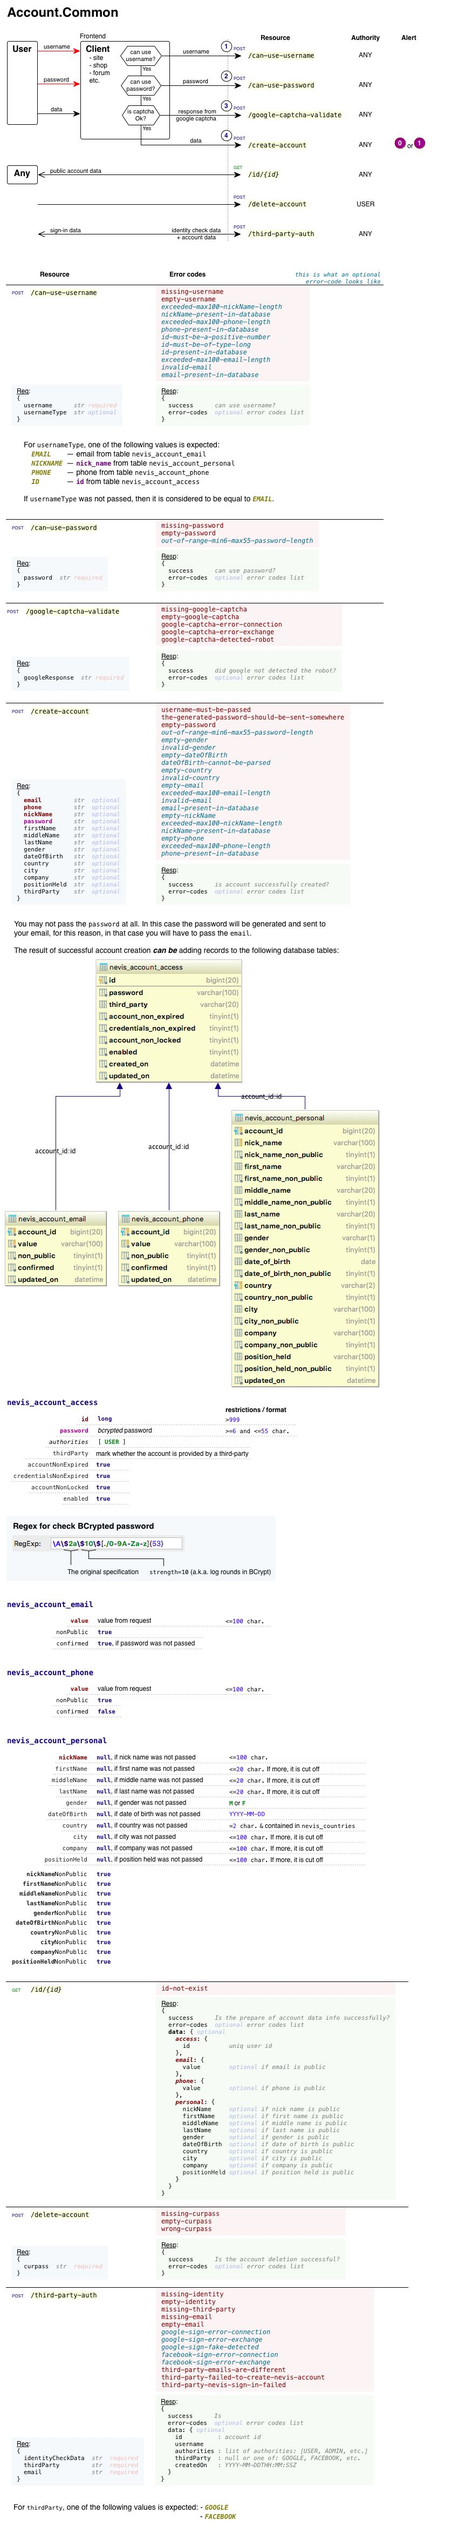
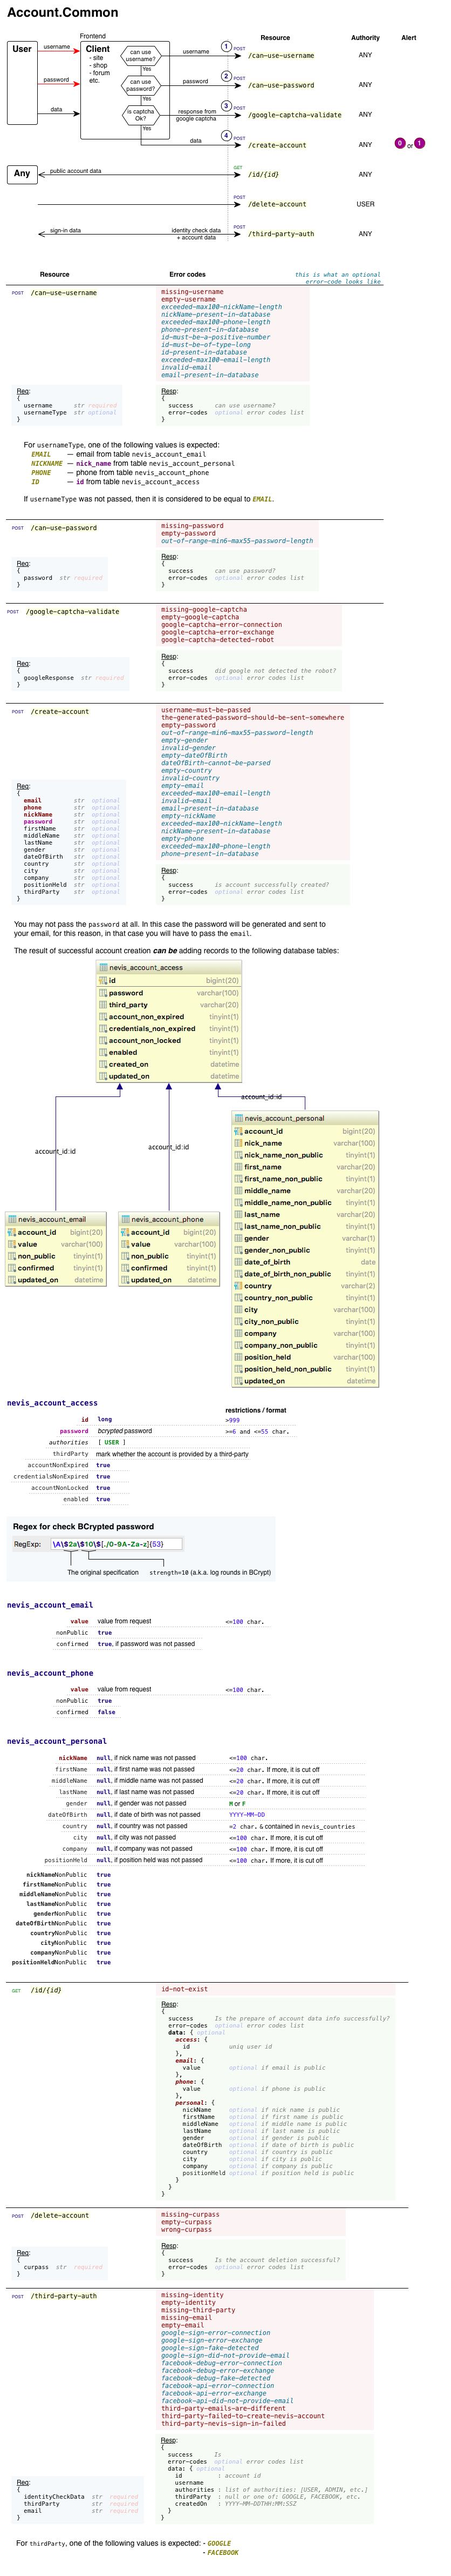
third-party

diff --git a/assets/error-mapping/nevis-server-error-mapping.js b/assets/error-mapping/nevis-server-error-mapping.js
@@ -26,11 +26,16 @@ nevisServerErrorCodesMap = {
     'exceeded-max100-email-length': 'Exceeded max100 Email length',
     'exceeded-max100-nickName-length': 'Exceeded max100 NickName length',
     'exceeded-max100-phone-length': 'Exceeded max100 Phone length',
-    'facebook-sign-error-connection': 'Error connection - Facebook Sign-in Check',
-    'facebook-sign-error-exchange': 'Error exchange - Facebook Sign-in Check',
+    'facebook-api-did-not-provide-email': 'Facebook API did not provide Email',
+    'facebook-api-error-connection': 'Error connection - Facebook API access',
+    'facebook-api-error-exchange': 'Error exchange - Facebook API access',
+    'facebook-debug-error-connection': 'Error connection - Facebook Sign-in Check',
+    'facebook-debug-error-exchange': 'Error exchange - Facebook Sign-in Check',
+    'facebook-debug-fake-detected': 'Facebook Sign-in Check fake detected',
     'google-captcha-detected-robot': 'Google Captcha detected a Robot. Sorry',
     'google-captcha-error-connection': 'Error connection - Google Captcha',
     'google-captcha-error-exchange': 'Error exchange - Google Captcha',
+    'google-sign-did-not-provide-email': 'Google Sign-in did not provide Email',
     'google-sign-error-connection': 'Error connection - Google Sign-in Check',
     'google-sign-error-exchange': 'Error exchange - Google Sign-in Check',
     'google-sign-fake-detected': 'Google Sign-in Check fake detected',

diff --git a/src/main/java/dwfe/nevis/controller/NevisControllerV1.java b/src/main/java/dwfe/nevis/controller/NevisControllerV1.java
@@ -338,14 +338,19 @@ public class NevisControllerV1
       errName = "google-sign";
       // https://developers.google.com/identity/sign-in/web/backend-auth#calling-the-tokeninfo-endpoint
       var url = String.format("https://www.googleapis.com/oauth2/v3/tokeninfo?id_token=%s", req.identityCheckData);
-      var body = exchangeWrap(url, HttpMethod.POST, 3, errName, errorCodes);
-      if (body != null && body.containsKey("email"))
+      var body = exchangeWrap(url, HttpMethod.GET, 3, errName, errorCodes);
+      if (body != null)
       {
         if (body.get("aud").equals(prop.getThirdPartyAuth().getGoogleClientId()))
         {
-          email = (String) body.get("email");
-          firstName = (String) body.get("given_name");
-          lastName = (String) body.get("family_name");
+          if (body.containsKey("email"))
+          {
+            email = (String) body.get("email");
+            firstName = (String) body.getOrDefault("given_name", null);
+            lastName = (String) body.getOrDefault("family_name", null);
+          }
+          else
+            errorCodes.add(errName + "-did-not-provide-email");
         }
         else
           errorCodes.add(errName + "-fake-detected");
@@ -353,29 +358,34 @@ public class NevisControllerV1
     }
     else if (FACEBOOK == thirdParty)
     {
-      errName = "facebook-sign";
-
+      errName = "facebook-debug";
+      var facebookAppId = prop.getThirdPartyAuth().getFacebookAppId();
       // https://developers.facebook.com/docs/facebook-login/access-tokens#apptokens
       // https://developers.facebook.com/docs/facebook-login/access-tokens/debugging-and-error-handling
       var url = String.format("https://graph.facebook.com/debug_token?input_token=%s&access_token=%s|%s",
-              req.identityCheckData, prop.getThirdPartyAuth().getFacebookAppId(), prop.getThirdPartyAuth().getFacebookAppSecret());
+              req.identityCheckData, facebookAppId, prop.getThirdPartyAuth().getFacebookAppSecret());
       var body = exchangeWrap(url, HttpMethod.GET, 3, errName, errorCodes);
-      if (body != null)
+      var debug = (Map<String, Object>) body.get("data");
+      if (debug.containsKey("app_id")
+              && debug.get("app_id").equals(facebookAppId))
       {
-        var debug = (Map<String, Object>) body.get("data");
-        if (debug.get("app_id").equals(prop.getThirdPartyAuth().getFacebookAppId())
-                && debug.get("is_valid").equals(true))
+        errName = "facebook-api";
+        url = String.format("https://graph.facebook.com/me?fields=email,first_name,last_name&access_token=%s", req.identityCheckData);
+        body = exchangeWrap(url, HttpMethod.GET, 3, errName, errorCodes);
+        if (body != null)
         {
-          url = String.format("https://graph.facebook.com/me?fields=email,first_name,last_name&access_token=%s", req.identityCheckData);
-          body = exchangeWrap(url, HttpMethod.GET, 3, errName, errorCodes);
-          if (body != null && body.containsKey("email"))
+          if (body.containsKey("email"))
           {
             email = (String) body.get("email");
-            firstName = (String) body.get("first_name");
-            lastName = (String) body.get("last_name");
+            firstName = (String) body.getOrDefault("first_name", null);
+            lastName = (String) body.getOrDefault("last_name", null);
           }
+          else
+            errorCodes.add(errName + "-did-not-provide-email");
         }
       }
+      else
+        errorCodes.add(errName + "-fake-detected");
     }
 
 

diff --git a/src/test/java/dwfe/nevis/test/NevisTestVariablesForIntegrationTest.java b/src/test/java/dwfe/nevis/test/NevisTestVariablesForIntegrationTest.java
@@ -226,9 +226,14 @@ public class NevisTestVariablesForIntegrationTest
           NevisTestChecker.of(false, 200, Map.of(), "missing-identity"),
           NevisTestChecker.of(false, 200, Map.of("identityCheckData", ""), "empty-identity"),
           NevisTestChecker.of(false, 200, Map.of("identityCheckData", "12345"), "missing-third-party"),
+
           NevisTestChecker.of(false, 200, Map.of("identityCheckData", "12345", "thirdParty", "GOOGLE"), "missing-email"),
           NevisTestChecker.of(false, 200, Map.of("identityCheckData", "12345", "thirdParty", "GOOGLE", "email", ""), "empty-email"),
-          NevisTestChecker.of(false, 200, Map.of("identityCheckData", "12345", "thirdParty", "GOOGLE", "email", "ds@df.sa"), "google-sign-error-connection")
+          NevisTestChecker.of(false, 200, Map.of("identityCheckData", "12345", "thirdParty", "GOOGLE", "email", "ds@df.sa"), "google-sign-error-connection"),
+
+          NevisTestChecker.of(false, 200, Map.of("identityCheckData", "12345", "thirdParty", "FACEBOOK"), "missing-email"),
+          NevisTestChecker.of(false, 200, Map.of("identityCheckData", "12345", "thirdParty", "FACEBOOK", "email", ""), "empty-email"),
+          NevisTestChecker.of(false, 200, Map.of("identityCheckData", "12345", "thirdParty", "FACEBOOK", "email", "ds@df.sa"), "facebook-debug-fake-detected")
   );
 
 
